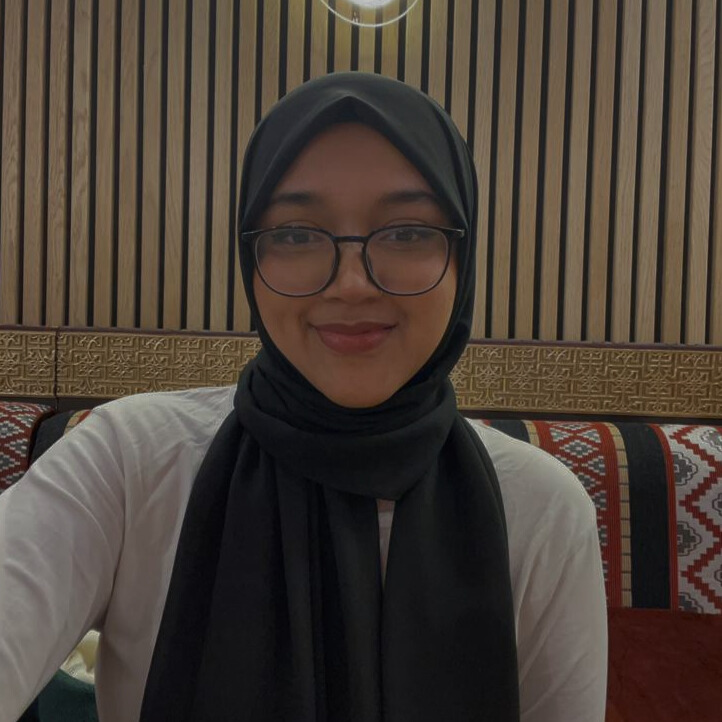
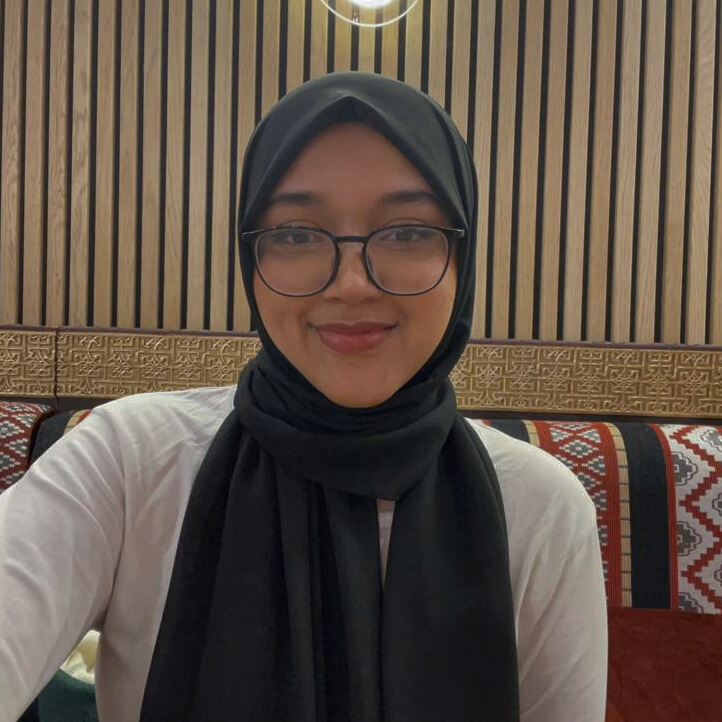
new project details

diff --git a/client/src/constants/index.js b/client/src/constants/index.js
@@ -4,19 +4,27 @@ import project3 from "../assets/projects/project-3.png";
 import project5 from "../assets/projects/project-5.png";
 import project6 from "../assets/projects/project-6.png";
 import project7 from "../assets/projects/project-7.png";
+import ease from "../assets/projects/ease.jpg";
 
-export const HERO_CONTENT = `I'm Mafruha Manal, currently a junior in Computer Science at UB. I like to dabble in a whole lot of Full-stack development 👩🏽💻 Always cooking up a storm and looking for new things to build (drop a project idea my way, I just might run with it!)
+export const HERO_CONTENT = `I'm Mafruha Manal, currently a junior in Computer Science at UB. I like to dabble in a whole lot of Full-stack web development 👩🏽💻 Always cooking up a storm and looking for new things to build (drop a project idea my way, I might run with it)
 
 `;
 
-export const ABOUT_TEXT = `I love to code (🤯) and enjoy working on little projects on the side 💻 It's always so so fun to just dive in and learn new skills first-hand, it's how I learn best!
- Outside of programming, I love to do digital art and play video games for fun 🎮`;
+export const ABOUT_TEXT = `I'm currently located in Buffalo, NY, studying as an undergraduate student in CS with a specialization in Software Systems!
+ Outside of programming, I love to do digital art, watch k-drama and play video games for fun`;
 
 export const EXPERIENCES = [
   {
+    year: "May 2026 - Aug 2026",
+    role: "Incoming Software Engineer Intern",
+    company: "Netflix",
+    description: "",
+    technologies: []
+  },
+  {
     year: "Apr 2025 - Present",
     role: "Software Engineer Fellow",
-    company: "Netflix",
+    company: "Formation",
     description:
       "Received the Rising Tide Award for outstanding collaboration in pair programming and code review. Completed 350+ hours of training in data structures and distributed systems design, conducting 3 weekly data modelling and design drills across the 16-week program.",
     technologies: ["Java", "System Design", "DBMS"],
@@ -50,18 +58,24 @@ export const EXPERIENCES = [
     company: "University at Buffalo",
     description: `Maintain Wireless Topology Tool, a Flask web app for topology simulation to integrate real geographic data for wireless network research. Integrate a dynamic display feature for NS3 simulation results by transforming large JSON topology data`,
     technologies: ["Flask", "MySQL", "JavaScript", "Python"],
-  },
-  {
-    year: "Jan 2020 - Jun 2022",
-    role: "Founder & Instructor",
-    company: "Brown Women for STEM",
-    description: `Provided 30 underprivileged students with one-on-one lessons in Computer Science and Mathematics once a week. Connected 7 women with full-ride college scholarships by mentoring students through
-application processes`,
-    technologies: ["Javascript", "Python"],
   }
 ];
 
 export const PROJECTS = [
+   {
+    title: "EAS&E - Best AI/ML Hack @ UB Hacking 2025",
+    image: ease,
+    description:
+      "Built a platform for AI-assisted wrist and posture exercises to alleviate arthritis pain. Implemented a RAG-based voice agent to guide you through the website and exercises. The wrist and posture exercises, consisted of real-time tracing for pre-computed movements, and a feature that lets you build your own custom traces as well",
+    technologies: [
+      "React",
+      "Node.js",
+      "Express.js",
+      "Eleven Labs",
+      "MediaPipe",
+      "Gemini"
+    ],
+  },
   {
     title: "BenefitForAll - J.P. Morgan Code for Good 2024",
     image: project7,

diff --git a/client/src/style.css b/client/src/style.css
@@ -628,10 +628,6 @@ video {
   margin-bottom: 0.5rem;
 }
 
-.mb-12{
-  margin-bottom: 3rem;
-}
-
 .mb-2{
   margin-bottom: 0.5rem;
 }
@@ -652,16 +648,16 @@ video {
   margin-right: 0.5rem;
 }
 
+.mt-12{
+  margin-top: 3rem;
+}
+
 .mt-24{
   margin-top: 6rem;
 }
 
 .mt-4{
   margin-top: 1rem;
-}
-
-.mt-12{
-  margin-top: 3rem;
 }
 
 .flex{
@@ -676,40 +672,24 @@ video {
   display: none;
 }
 
-.h-full{
-  height: 100%;
-}
-
-.h-64{
-  height: 16rem;
-}
-
-.h-96{
+.h-\[24rem\]{
   height: 24rem;
 }
 
-.h-\[28rem\]{
-  height: 28rem;
+.h-full{
+  height: 100%;
 }
 
 .w-3\/4{
   width: 75%;
 }
 
-.w-full{
-  width: 100%;
-}
-
-.w-64{
-  width: 16rem;
-}
-
-.w-96{
+.w-\[24rem\]{
   width: 24rem;
 }
 
-.w-\[28rem\]{
-  width: 28rem;
+.w-full{
+  width: 100%;
 }
 
 .max-w-xl{
@@ -758,6 +738,10 @@ video {
 
 .rounded-full{
   border-radius: 9999px;
+}
+
+.rounded-xl{
+  border-radius: 0.75rem;
 }
 
 .border-b{
@@ -1027,6 +1011,11 @@ video {
   font-family: "DM Sans", system-ui, sans-serif;
 }
 
+html, body {
+  background-color: #0c0906;
+  min-height: 100%;
+}
+
 .selection\:bg-brown-700 *::selection{
   --tw-bg-opacity: 1;
   background-color: rgb(61 42 26 / var(--tw-bg-opacity));
@@ -1060,10 +1049,6 @@ video {
 @media (min-width: 1024px){
   .lg\:mt-16{
     margin-top: 4rem;
-  }
-
-  .lg\:mt-6{
-    margin-top: 1.5rem;
   }
 
   .lg\:w-1\/2{

diff --git a/client/src/components/Hero.js b/client/src/components/Hero.js
@@ -51,7 +51,7 @@ const Hero = () => {
             <motion.img initial={{x:30, opacity:0}}
             animate={{x:0, opacity:1}}
             transition={{duration: 1, delay: 1.2}}
-            src={profilePic} alt="Maf" className="w-[28rem] h-[28rem] object-cover rounded-2xl mt-12" />
+            src={profilePic} alt="Maf" className="w-[24rem] h-[24rem] object-cover rounded-2xl mt-12" />
           </div>
         </div>
       </div>

diff --git a/client/src/components/Projects.js b/client/src/components/Projects.js
@@ -26,7 +26,7 @@ const Projects = () => {
                 width={250}
                 height={250}
                 alt={project.title}
-                className="mb-6 rounded"
+                className="mb-6 rounded-xl"
               />
             </motion.div>
             <motion.div

diff --git a/client/src/index.css b/client/src/index.css
@@ -7,3 +7,8 @@
 :root {
   font-family: "DM Sans", system-ui, sans-serif;
 }
+
+html, body {
+  background-color: #0c0906;
+  min-height: 100%;
+}
